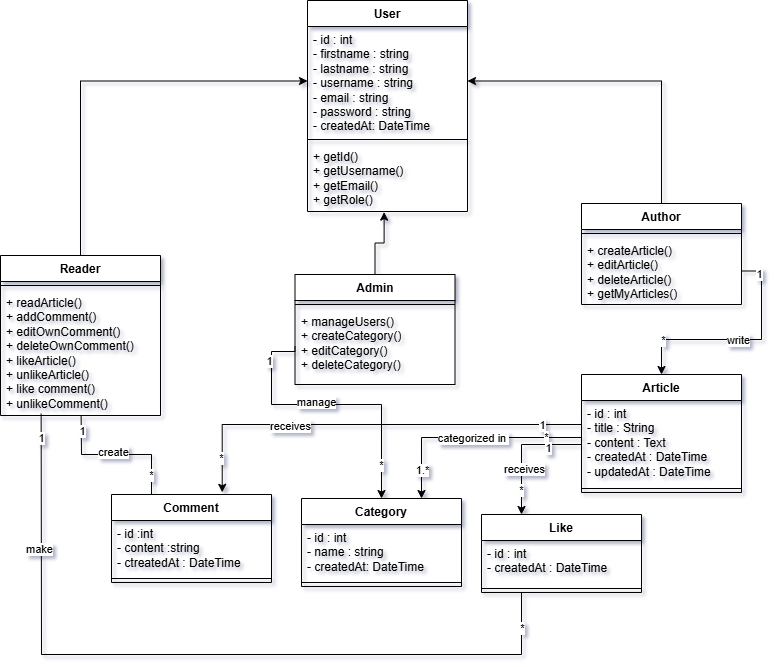
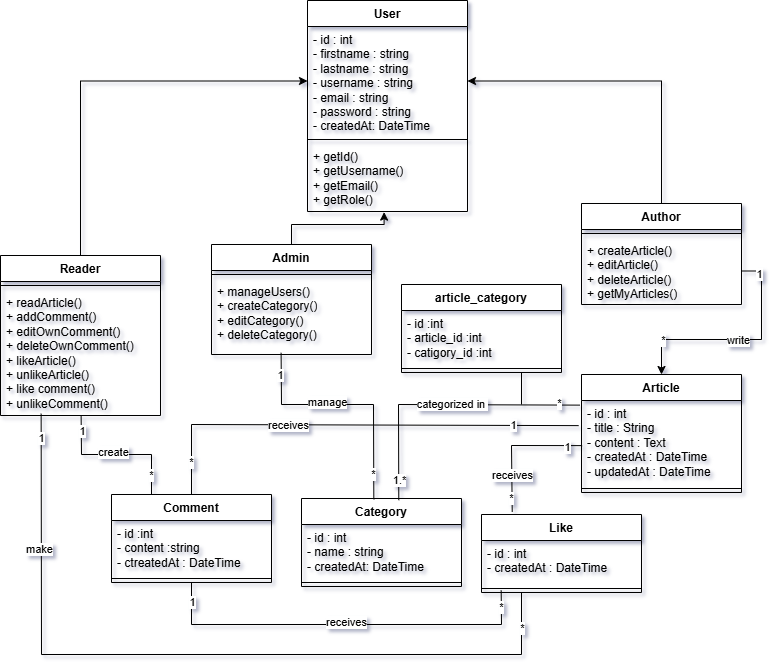
fix likes in conception and sql

diff --git a/app/Views/layouts/main.php b/app/Views/layouts/main.php
@@ -2,7 +2,7 @@
 <html>
 <head>
     <meta charset="UTF-8">
-    <title><?= isset($title) ? htmlspecialchars($title) : 'Mini MVC' ?></title>
+    <title><?= isset($title) ? htmlspecialchars($title) : 'Home' ?></title>
 </head>
 <body>
 

diff --git a/app/Controllers/HomeController.php b/app/Controllers/HomeController.php
@@ -1,0 +1,11 @@
+<?php
+
+namespace App\Controllers;
+use App\Core\Controller;
+
+class HomeController extends Controller
+{
+    public function index(){
+        $this->view('home', ['title' => 'home page']);
+    }
+}
